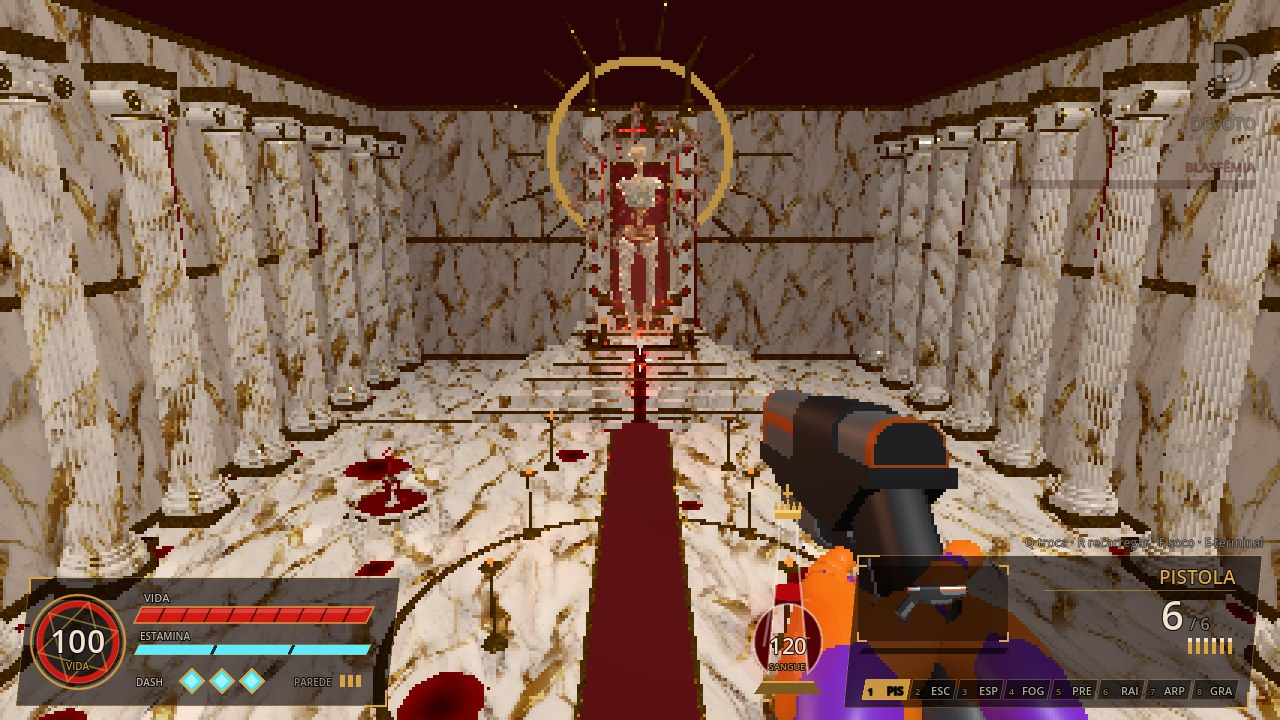
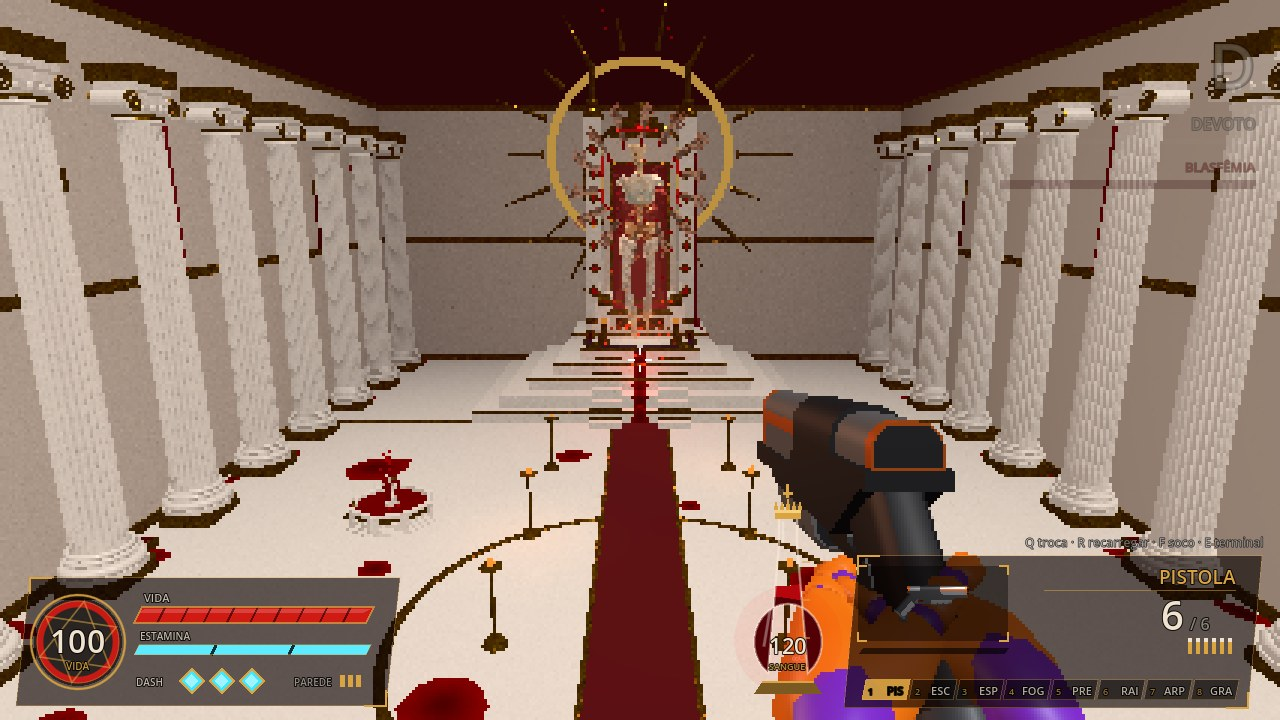
Gesso branco no Gabriel e no trono, estátuas maiores, sangue novo em todos os mapas
Claude-Session: https://claude.ai/code/session_01XQta9wH9Q7MkitcZydzUWR

diff --git a/CHANGELOG.md b/CHANGELOG.md
@@ -1,5 +1,16 @@
 # Histórico de mudanças
 
+## Gesso branco, estátuas maiores e sangue novo
+
+- Paredes, pisos e colunas do Gabriel e do trono de Deus agora usam gesso pintado branco (Poliigon PlasterPainted 7664:
+  cor, relevo e rugosidade), no lugar do mármore com veios de ouro. A corrupção do Gabriel continua espalhando por cima.
+- As estátuas de anjo da entrada do Gabriel ficaram ~40% maiores e em gesso (os anjinhos do portão também);
+  continuam chorando sangue.
+- Sangue novo em todos os mapas, recriado a partir do material "Blood" do .blend enviado: vermelho escuro quase
+  espelhado (rugosidade ~0,02), verniz por cima, relevo fino ondulado e brilho frio azulado nas bordas. Vale para poças,
+  filetes, cachoeiras e fontes do trono, a inundação de Deus, o sangue do Gabriel corrompido, as lágrimas das estátuas
+  e o sangue do Azazel.
+
 ## Texturas novas: mármore com veios de ouro, folha de ouro e colunas jônicas
 
 - Texturas enviadas pelo jogador: mármore branco com veios de ouro (paredes, piso, colunas) e folha de ouro
